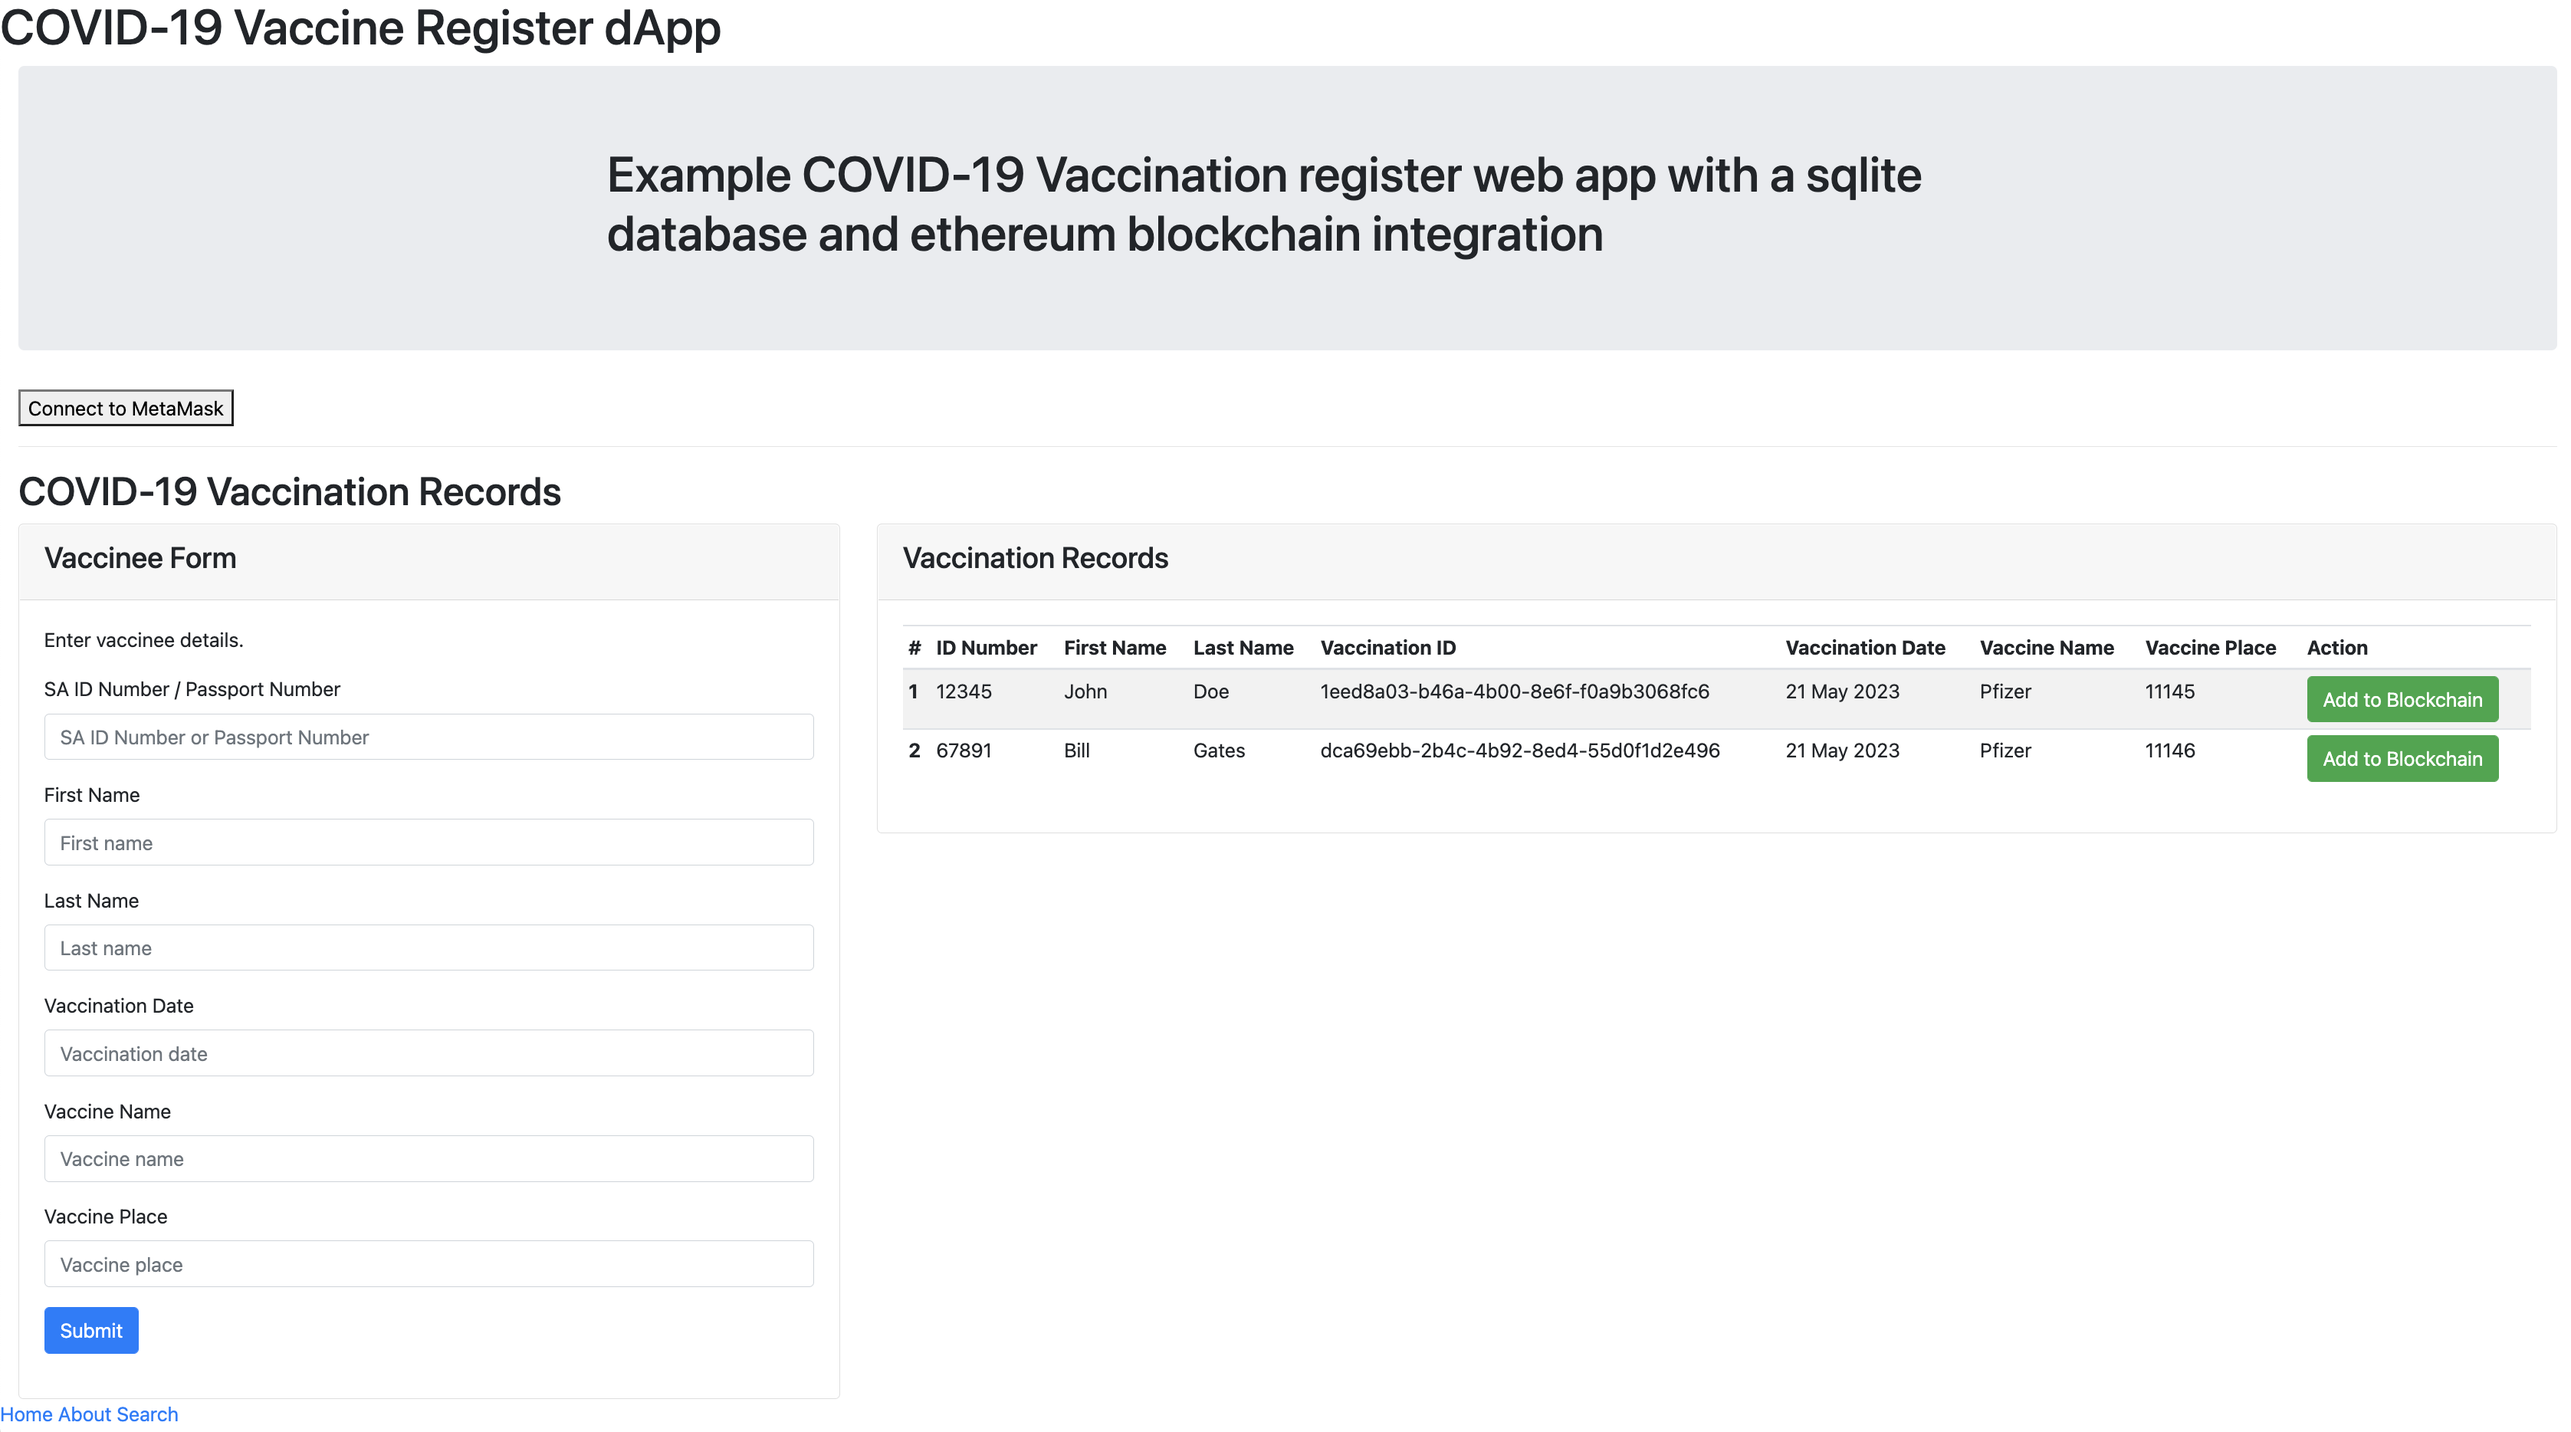
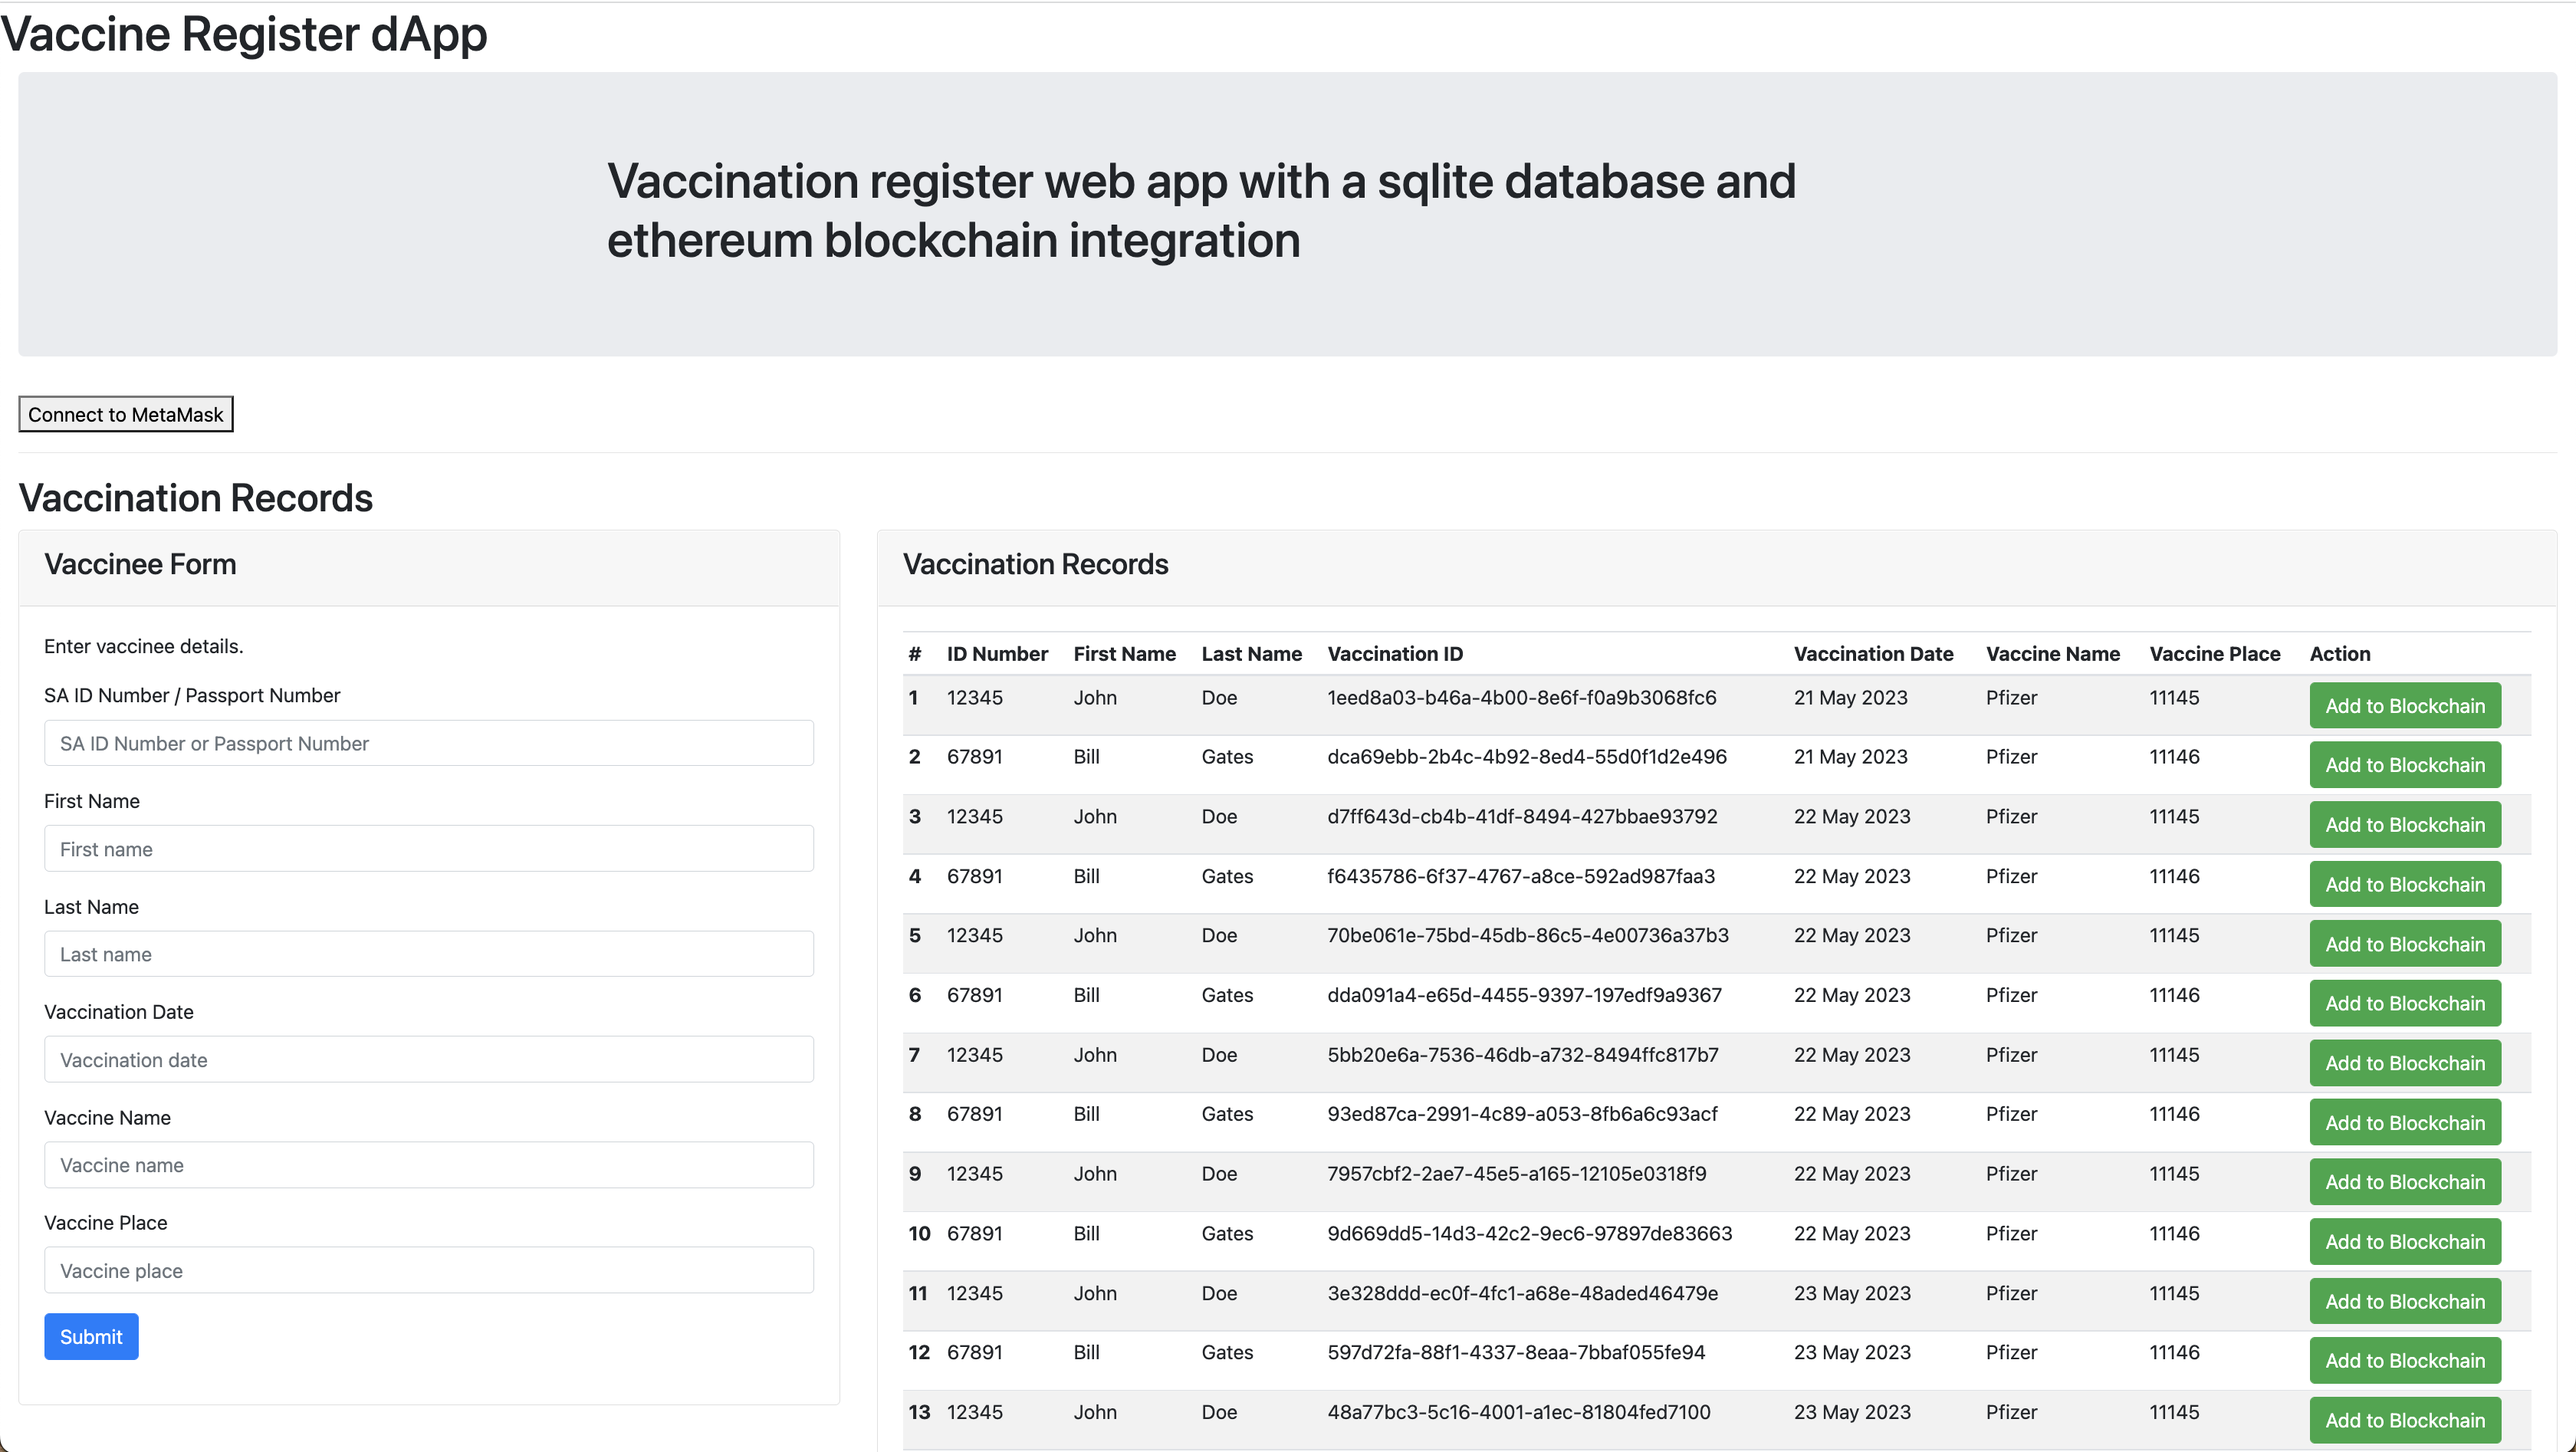
rename Vaccine Register dApp

diff --git a/routes/index.js b/routes/index.js
@@ -26,7 +26,7 @@ router.get("/", function (req, res) {
     console.log("rows - " + rows.length);
     res.render( 'index', {
       status: req.query.success === "true" ? "Saved to DB" : "No status",
-      covidregister_records: rows, title: "Home", app_title: "COVID-19 Vaccine Register dApp"
+      covidregister_records: rows, title: "Home", app_title: "Vaccine Register dApp"
     });
   });
 });

diff --git a/app.js b/app.js
@@ -68,7 +68,7 @@ db.run(sql_create, (err) => {
     if (err) {
       return console.error(err.message);
     }
-    console.log("Successful creation of 2 covidregister records");
+    console.log("Successful creation of 2 vaccine register records");
   });
 });
 
